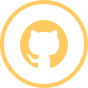
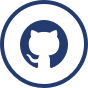
Change app background to mountains

diff --git a/src/components/App/style.css b/src/components/App/style.css
@@ -1,14 +1,6 @@
-/*font-family: 'Lato', sans-serif;*/
-/*font-family: 'Roboto', sans-serif;*/
-/*#FFCA61
-#FFEC85
-#F2FFDF
-#C9F0D6*/
-
 .App {
-  font-family: 'Lato', sans-serif;
+  font-family: 'Muli', sans-serif;
   letter-spacing: 2px;
-  color: #84A58E;
   text-align: center;
   font-size: 25px;
 }
@@ -16,7 +8,7 @@
 /*hero*/
 .hero-background-image {
   height: 95vh;
-  background: linear-gradient(to top, transparent 0%, white 150%), url('background.jpg');
+  background: linear-gradient(to top, transparent 0%, white 250%), url('background.jpg');
   background-attachment: fixed;
   background-repeat: no-repeat;
   background-size: cover;
@@ -24,13 +16,12 @@
 }
 
 .hero-text-landing {
-  color: #222f26;
-  text-shadow: 1px 1px #84A58E;
-  padding: 3% 3% 3% 8%;
+  text-shadow: 1px 1px white;
+  color: black;
   font-size: 65px;
   position: absolute;
-  width: 50%;
-  left: 28%;
+  width: 60%;
+  left: 20%;
   background-color: hsla(0, 0%, 100%, 0);
 }
 
@@ -61,7 +52,7 @@
 .project-image {
   width: 30vw;
   height: 300px;
-  box-shadow: 0 0 5px #84A58E;
+  box-shadow: 0 0 10px #D3D6DB;
 }
 
 /*view more button*/

diff --git a/src/components/Header/style.css b/src/components/Header/style.css
@@ -1,20 +1,21 @@
 .Header {
-  margin: 10px;
+  margin: 15px;
   text-align: right;
   letter-spacing: 2px;
-  font-family: 'Roboto', sans-serif;
+  font-family: 'Muli', sans-serif;
   font-size: 20px;
 }
 
+/*dropdown*/
 .menu {
   z-index: 1000000;
-  font-weight: bold;
   font-size: 20px;
-  width: 30%;
+  width: 100%;
   position: absolute;
   text-align: center;
   left: 0;
-  margin: 10px 2px;
+  margin: 15px 0px;
+  box-shadow: 0 0 10px #D3D6DB;
 }
 
 .menu ul {
@@ -25,20 +26,20 @@
 .menu li {
   display: block;
   padding: 15px 0 15px 0;
-  border: #84A58E 1px solid;
+  border: #D3D6DB 1px solid;
 }
 
 .menu li:hover {
   display: block;
-  background: #84A58E;
+  background: #D3D6DB;
   padding: 15px 0 15px 0;
-  border-bottom: #222f26 1px solid;
+  border: #EFF0F4 1px solid;
 }
 
 .menu ul li a {
   text-decoration: none;
   margin: 0px;
-  color:#fff;
+  color: white;
 }
 
 .menu ul li a:hover {

diff --git a/src/index.css b/src/index.css
@@ -1,29 +1,28 @@
+/*#233B6E #415F9D #D3D6DB #EFF0F4*/
+
 * {
-  font-family: 'Roboto', sans-serif;
-  /*background: #f2f2f2;*/
+  font-family: 'Muli', sans-serif;
   background: white;
-  /*background: #EEEFF2;*/
 }
 
 /*links*/
 a {
-  color: #84A58E;
+  color: #D3D6DB;
   text-decoration: none;
   transition: 0.5s ease-in-out;
 }
 
 a:hover {
-  color: #FFCA61;
-  /*color: #EEBC71;*/
+  color: #233B6E;
   cursor: pointer;
 }
 
 .active {
-  color: #FFCA61;
+  color: #233B6E;
 }
 
 /*buttons*/
-.button{
+.button {
   font-size: 20px;
   border: 2px solid;
   padding: 10px;

diff --git a/public/index.html b/public/index.html
@@ -3,7 +3,9 @@
   <head>
     <meta charset="utf-8">
     <meta name="viewport" content="width=device-width, initial-scale=1">
-    <link href="https://fonts.googleapis.com/css?family=Lato:300,400|Roboto:300,400,700" rel="stylesheet">
+    <!-- <link href="https://fonts.googleapis.com/css?family=Lato:300,400|Roboto:300,400,700" rel="stylesheet"> -->
+    <link href="https://fonts.googleapis.com/css?family=Muli:200,400,700" rel="stylesheet">
+
     <title>Hilary Lewis Website</title>
   </head>
   <body>

diff --git a/src/components/Header/index.js b/src/components/Header/index.js
@@ -26,11 +26,11 @@ export default class Header extends Component {
         <Hamburger
           isOpen={this.state.open}
           menuClicked={this.handleClick.bind(this)}
-          width={25}
-          height={20}
+          width={30}
+          height={25}
           strokeWidth={3}
           rotate={0}
-          color='#84A58E'
+          color='#233B6E'
           animationDuration={0.5}
         />
 

diff --git a/src/components/App/index.js b/src/components/App/index.js
@@ -34,7 +34,7 @@ export default class App extends Component {
 
   gsapHeroAnimation() {
     TweenMax.to('.hero-text-landing', 1.5,
-    {bottom: 0}
+    {bottom: 220}
     )
   }
 
